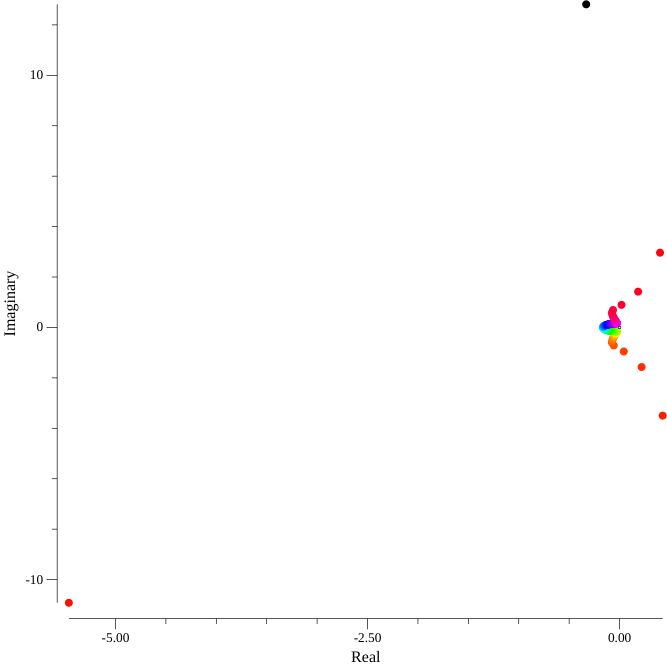
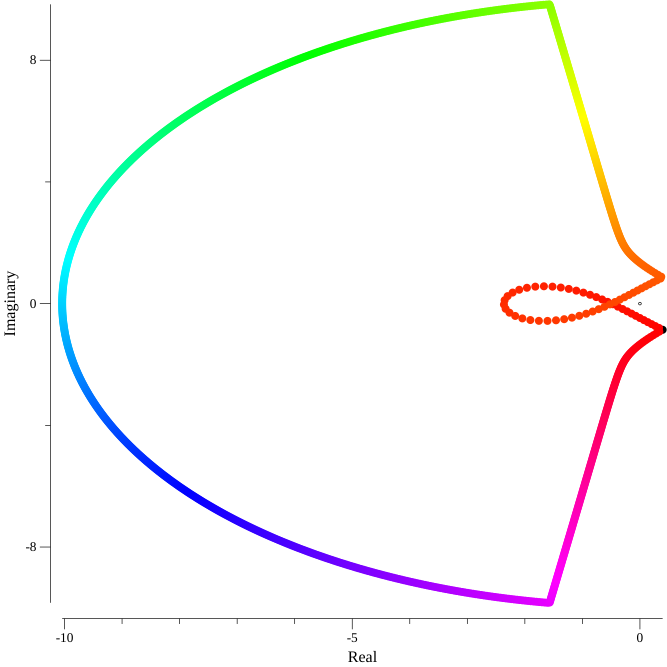
fixed rather embarassing issues, and other updates

diff --git a/ii/main.go b/ii/main.go
@@ -7,17 +7,24 @@ import (
 )
 
 func main() {
-	fmt.Println("hey world!")
-	f := MakeEulerEquation(big.NewRat(1, 1), Vector{big.NewRat(3, 1), big.NewRat(1, 1)}, Vector{big.NewRat(-1, 1), big.NewRat(2, 1)}, 101)
+	// f := MakeEulerEquation(big.NewRat(1, 1), Vector{big.NewRat(3, 1), big.NewRat(1, 1)}, Vector{big.NewRat(-1, 1), big.NewRat(1, 1)}, 201)
 
-	// f := MakeEulerEquation(big.NewRat(0, 1), Vector{big.NewRat(2, 1), big.NewRat(0, 1)}, Vector{big.NewRat(-1, 1), big.NewRat(-1, 1)}, 20)
-	aboutzero := f(Complex{big.NewRat(1539, 10), big.NewRat(0, 1)})
-	fmt.Println(aboutzero[0].FloatString(5), aboutzero[1].FloatString(3))
+	// f := MakeEulerEquation(big.NewRat(1, 1), Vector{big.NewRat(3, 1), big.NewRat(1, 1)}, Vector{big.NewRat(-1, 1), big.NewRat(2, 1)}, 10)
+
+	f := MakeEulerEquation(big.NewRat(0, 1), Vector{big.NewRat(2, 1), big.NewRat(0, 1)}, Vector{big.NewRat(-1, 1), big.NewRat(-1, 1)}, 120)
+
+	point := Complex{big.NewRat(1, 10), big.NewRat(0, 1)}
+	// point := Complex{big.NewRat(1538, 1000), big.NewRat(0, 1)}
+	fmt.Println("point:", point[0].FloatString(3), point[1].FloatString(3))
+	aboutzero := f(point)
+	fmt.Println("val:", aboutzero[0].FloatString(3), aboutzero[1].FloatString(3))
+
 	// p := Path(func(i, j int) Complex {
 	// 	return circle(i, j, big.NewRat(1, 1), big.NewRat(0, 1), big.NewRat(0, 1))
 	// })
+
 	p := Path(func(i, j int) Complex {
-		a, b, theta := 0.2, 10.0, math.Pi/20
+		a, b, theta := 1.0, 10.0, math.Pi/20
 		acircle, bcircle, line := a*(math.Pi-2*theta), b*(math.Pi-2*theta), (b - a)
 		len := acircle + bcircle + 2*line
 		position := float64(i) / float64(j) * len
@@ -49,10 +56,12 @@ func main() {
 		imag := t*b*math.Sin(angle) + (1-t)*a*math.Sin(angle)
 		return Complex{new(big.Rat).SetFloat64(real), new(big.Rat).SetFloat64(imag)}
 	})
-	p.Draw(f, "_result.png")
+	samples := 1000
+	p.Draw(f, samples, "_result.png")
 	p.Draw(func(x Complex) Complex {
 		return x
-	}, "_contour.png")
+	}, samples, "_contour.png")
+
 }
 
 func getCase(p, q Vector) string {

diff --git a/ii/path.go b/ii/path.go
@@ -1,7 +1,6 @@
 package main
 
 import (
-	"fmt"
 	"log"
 	"math"
 	"math/big"
@@ -20,7 +19,7 @@ import (
 type Path func(int, int) Complex
 
 //Draw result of going along the path
-func (p Path) Draw(f EulerEquation, path string) {
+func (p Path) Draw(f EulerEquation, samples int, path string) {
 	plt, err := plot.New()
 	if err != nil {
 		log.Panic(err)
@@ -30,40 +29,28 @@ func (p Path) Draw(f EulerEquation, path string) {
 	plotter.DefaultGlyphStyle.Radius = vg.Points(1)
 	plt.X.Label.Text = "Real"
 	plt.Y.Label.Text = "Imaginary"
-	// plt.Y.Tick.Marker = plot.ConstantTicks([]plot.Tick{
-	// 	{Value: 0, Label: "0"}, {Value: 0.25, Label: ""}, {Value: 0.5, Label: "0.5"}, {Value: 0.75, Label: ""}, {Value: 1, Label: "1"},
-	// })
-	// plt.X.Tick.Marker = plot.ConstantTicks([]plot.Tick{
-	// 	{Value: 0, Label: "0"}, {Value: 0.25, Label: ""}, {Value: 0.5, Label: "0.5"}, {Value: 0.75, Label: ""}, {Value: 1, Label: "1"},
-	// })
 
-	j := 100
-	pts := make(plotter.XYs, j)
-	bar := pb.StartNew(j)
-	for i := 0; i < j; i++ {
-		val := f(p(i, j))
+	pts := make(plotter.XYs, samples)
+	bar := pb.StartNew(samples)
+	for i := 0; i < samples; i++ {
+		val := f(p(i, samples))
 		// val := p(i, j)
 
 		real, _ := val[0].Float64()
 		img, _ := val[1].Float64()
 		pts[i] = plotter.XY{X: real, Y: img}
-		if i == 0 {
-			fmt.Println(pts[i])
-		}
-		// pts = append(pts, plotter.XY{X: 1, Y: 1})
 		bar.Increment()
 	}
 	bar.Finish()
-	// fmt.Println(pts)
 	scatter, err := plotter.NewScatter(pts)
 	if err != nil {
 		log.Panic(err)
 	}
 	colors := moreland.Kindlmann() // Initialize a color map.
-	colors.SetMax(float64(j))
+	colors.SetMax(float64(samples))
 	colors.SetMin(0)
 	scatter.GlyphStyleFunc = func(i int) draw.GlyphStyle {
-		hue := float64(i) / float64(j) * 360
+		hue := float64(i) / float64(samples) * 360
 		c := colorful.Hsv(hue, 1, 1)
 		if i == 0 {
 			c = colorful.Hsv(hue, 0, 0)

diff --git a/ii/euler_eq.go b/ii/euler_eq.go
@@ -29,7 +29,7 @@ func MakeEulerEquation(alpha *big.Rat, p Vector, q Vector, depth int64) EulerEqu
 		_, g := RationalFromContinued(negativeP)
 		return func(x Complex) Complex {
 			ans := *new(Complex).Add(f.ComplexCompute(x), g.ComplexCompute(x))
-			ans.Add(ans, new(Complex).Quo(p0, x))
+			ans.Add(ans, new(Complex).Quo(x, p0))
 			return ans
 		}
 	}

diff --git a/ii/complex.go b/ii/complex.go
@@ -51,3 +51,8 @@ func (c *Complex) Equals(b Complex) bool {
 	}
 	return true
 }
+
+//ToString returns a string representation of the complex number to 3 decimal points
+func (c Complex) ToString() string {
+	return "<" + c[0].FloatString(3) + ", " + c[1].FloatString(3) + ">"
+}
